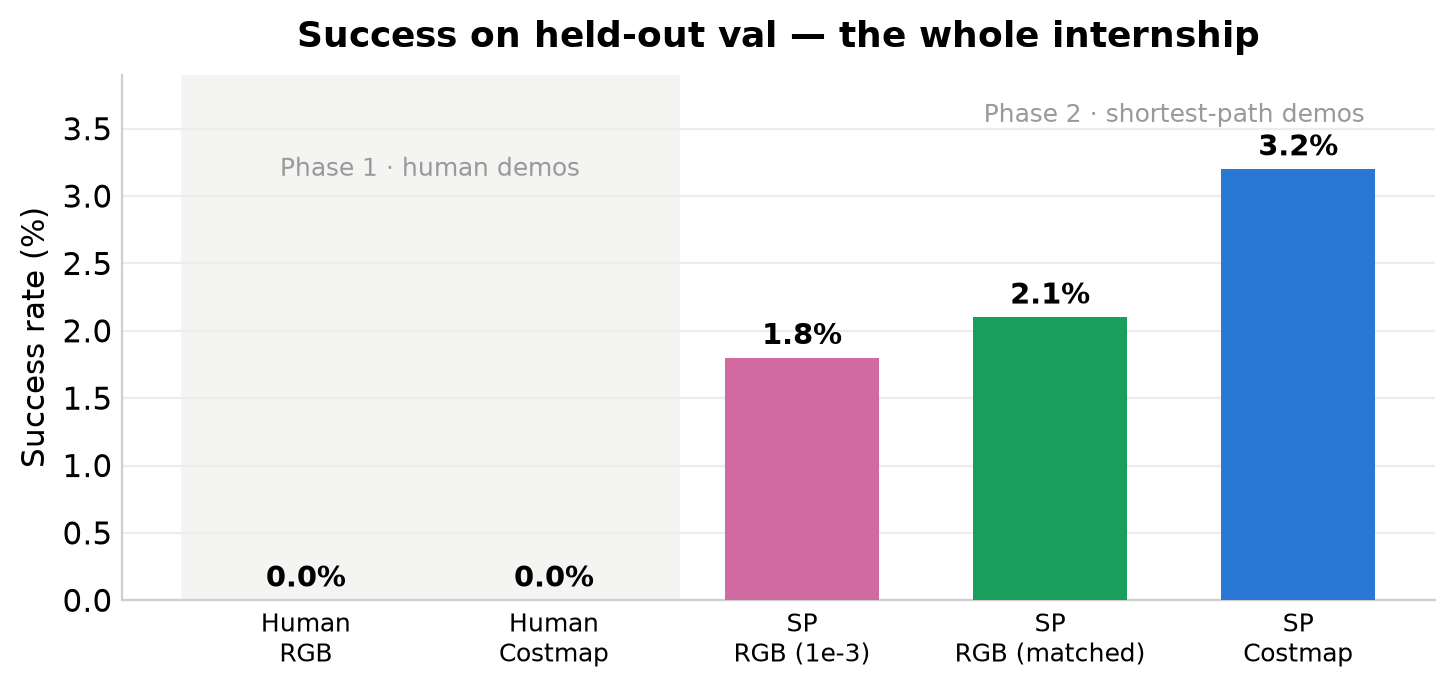
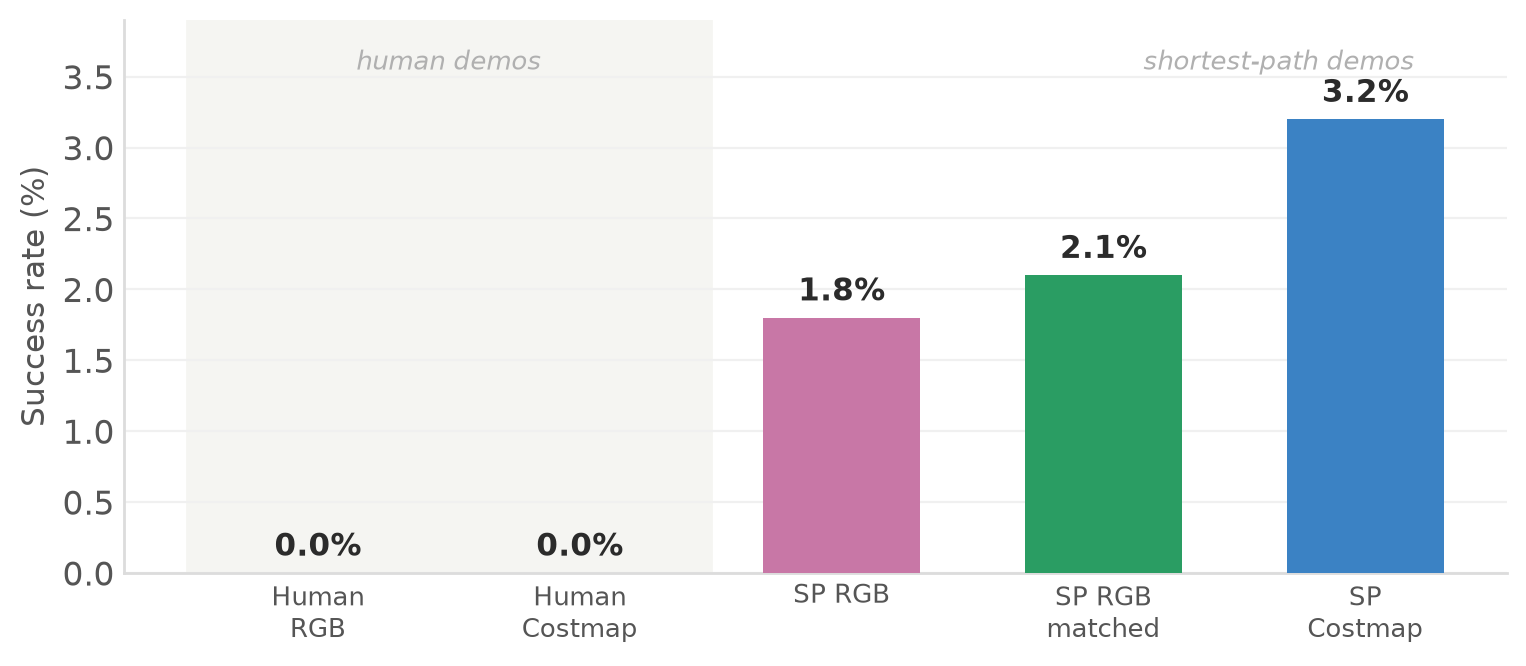
Polish report: title-less clean charts, clean 2-channel figure, unified figure styling

diff --git a/docs/index.html b/docs/index.html
@@ -56,9 +56,11 @@
   .legend{display:flex;flex-wrap:wrap;justify-content:center;gap:1.1rem;margin-top:1rem;font-size:.85rem;color:var(--ink2)}
   .legend span{display:inline-flex;align-items:center;gap:7px}
   .dot{width:11px;height:11px;border-radius:3px;display:inline-block}
-  .figrow img{width:100%;height:auto;display:block;border:1px solid var(--line);border-radius:8px;background:#fafafa}
-  .figstep{font-size:.72rem;color:var(--muted);text-align:center;margin-top:.35rem}
-  figcaption{color:var(--ink2);font-size:.9rem;margin-top:.9rem;line-height:1.55}
+  .plot{margin:1.6rem auto 0;text-align:center}
+  .plot img{width:100%;height:auto;display:block;margin:0 auto}
+  .frame img{border:1px solid var(--line);border-radius:10px;background:#fff}
+  figcaption{color:var(--ink2);font-size:.9rem;margin-top:.9rem;line-height:1.55;
+    max-width:680px;margin-left:auto;margin-right:auto;text-align:center}
   pre.bib{background:#f6f6f4;border:1px solid var(--line);border-radius:10px;padding:1rem 1.2rem;overflow-x:auto;font-size:.82rem;line-height:1.5}
   .footer{background:#fafafa;color:var(--muted);font-size:.9rem}
   .footer a{color:var(--accent)}
@@ -101,8 +103,10 @@
       <p style="color:var(--ink2);margin:0">With human demos, both inputs hit a shared
       ceiling (0% success) — a budget/perception limit the costmap can't lift on its own.</p>
     </div>
-    <figure style="margin:1.8rem 0 0">
-      <img src="figs/success_all.png" alt="Success rate across all arms, both phases" style="width:100%;max-width:720px;display:block;margin:0 auto">
+    <figure class="plot" style="max-width:740px">
+      <img src="figs/success_all.png" alt="Success rate across all arms, both phases">
+      <figcaption>Held-out val success across every arm of the internship. Human demos cap both
+      inputs at zero; under shortest-path demos the costmap pulls clear of RGB.</figcaption>
     </figure>
   </div>
 </section>
@@ -139,18 +143,18 @@
     the navmesh; KD-tree lookup; cached per scene+category; validated against offline GT to
     MAE 0.06–0.10 m). Each step it back-projects the agent’s depth image onto that field to
     produce an egocentric costmap the policy sees instead of RGB.</p>
-    <figure style="margin:1.4rem 0">
-      <img src="figs/geodesic_field.png" alt="Top-down geodesic cost-to-goal field" style="width:100%;max-width:660px;display:block;margin:0 auto">
-      <figcaption class="has-text-centered">The quantity the costmap encodes: geodesic
+    <figure class="plot" style="max-width:660px">
+      <img src="figs/geodesic_field.png" alt="Top-down geodesic cost-to-goal field">
+      <figcaption>The quantity the costmap encodes: geodesic
       distance from every point to the goal (dark = near). Walls bend the contours — the
       isolated left room is geodesically <em>far</em> despite being spatially close, because
       the path must route through doorways. The agent descends this field (red path).
       <span style="color:var(--muted)">(Schematic on a synthetic floorplan; the real sensor
       computes the same field over the HM3D navmesh.)</span></figcaption>
     </figure>
-    <figure style="margin:1.4rem 0">
-      <img src="figs/pipeline.png" alt="Costmap-conditioned PIRLNav architecture" style="width:100%;display:block">
-      <figcaption class="has-text-centered">The pipeline. The two arms are identical except
+    <figure class="plot" style="max-width:820px">
+      <img src="figs/pipeline.png" alt="Costmap-conditioned PIRLNav architecture">
+      <figcaption>The pipeline. The two arms are identical except
       for the input: the costmap arm feeds the policy a 2-channel egocentric costmap derived
       from the ground-truth geodesic field; the RGB baseline feeds a first-person image
       through a pretrained encoder. Everything downstream (CNN + GRU policy) is shared.</figcaption>
@@ -161,19 +165,16 @@
     The fix is a 2-channel transform: <strong>channel 0</strong> = absolute cost (“how far
     is the goal” → the STOP cue), <strong>channel 1</strong> = per-frame contrast-stretched
     cost (“which way is downhill” → the steering cue).</p>
-    <figure>
-      <div class="columns is-mobile" style="margin-bottom:0">
-        <div class="column"><img src="figs/cm_step0.png" alt="2-channel costmap at rollout step 0" style="width:100%;border:1px solid var(--line);border-radius:8px"><div class="figstep">rollout step 0</div></div>
-        <div class="column"><img src="figs/cm_step3.png" alt="2-channel costmap at rollout step 3" style="width:100%;border:1px solid var(--line);border-radius:8px"><div class="figstep">step 3</div></div>
-        <div class="column"><img src="figs/cm_step6.png" alt="2-channel costmap at rollout step 6" style="width:100%;border:1px solid var(--line);border-radius:8px"><div class="figstep">step 6</div></div>
-      </div>
-      <figcaption class="has-text-centered">The actual 2-channel costmap the policy sees, at
-      three steps of one rollout. In each frame the <strong>left half is channel 0</strong>
-      (absolute geodesic cost — deep blue is low cost near the goal; red spikes are
-      out-of-depth pixels clamped to max cost, itself the STOP cue) and the
-      <strong>right half is channel 1</strong> (the same field contrast-stretched per frame,
-      exposing the “downhill” gradient the agent steers along). This is the WayPixel-style
-      signal the shortest-path teacher follows.</figcaption>
+    <figure class="plot" style="max-width:820px">
+      <img src="figs/two_channel.png" alt="The two costmap channels: absolute vs contrast-stretched">
+      <figcaption>Why two channels. The same visible cost patch (~5.5–7 m to the goal),
+      shown under each channel. <strong>Channel 0</strong> divides by the global maximum, so a
+      real within-frame gradient collapses into ~4% of the range — almost a flat colour, which
+      the from-scratch encoder can’t read (but its absolute level still encodes “how far” → the
+      STOP cue). <strong>Channel 1</strong> stretches that same patch to full contrast, exposing
+      the downhill direction the agent steers along. Together they give the policy both
+      <em>how&nbsp;far</em> and <em>which&nbsp;way</em> — the WayPixel-style signal the
+      shortest-path teacher follows.</figcaption>
     </figure>
     <h3 class="has-text-centered" style="margin-top:1.8rem">The costmap in action</h3>
     <p class="has-text-centered" style="color:var(--ink2);max-width:660px;margin:.2rem auto 1.2rem">
@@ -232,12 +233,12 @@
     <em>is</em> that signal</strong>, so the prediction is an interaction effect: SP demos
     should stay bad for RGB but become more learnable through the costmap. Both arms were
     retrained on SP demos at the same 8M-frame budget and evaluated on the same held-out split.</p>
-    <figure style="margin:1.2rem 0 0">
-      <img src="figs/results_sp.png" alt="Costmap+SP vs RGB+SP on Success, SPL and softSPL" style="width:100%;display:block">
+    <figure class="plot" style="max-width:780px">
+      <img src="figs/results_sp.png" alt="Costmap+SP vs RGB+SP on Success, SPL and softSPL">
+      <figcaption>Costmap+SP wins on all three: Success ×1.5, SPL ×1.8, softSPL ×1.35. Its
+      final checkpoint is its best (monotonic 25k &gt; 20k &gt; 15k) — no overfitting collapse,
+      hinting it would climb with more training.</figcaption>
     </figure>
-    <p class="tbl-note has-text-centered">Costmap+SP wins on all three: Success ×1.5, SPL ×1.8,
-    softSPL ×1.35. Its final checkpoint is its best (monotonic 25k &gt; 20k &gt; 15k) — no
-    overfitting collapse, hinting it would climb with more training.</p>
   </div>
 </section>
 
